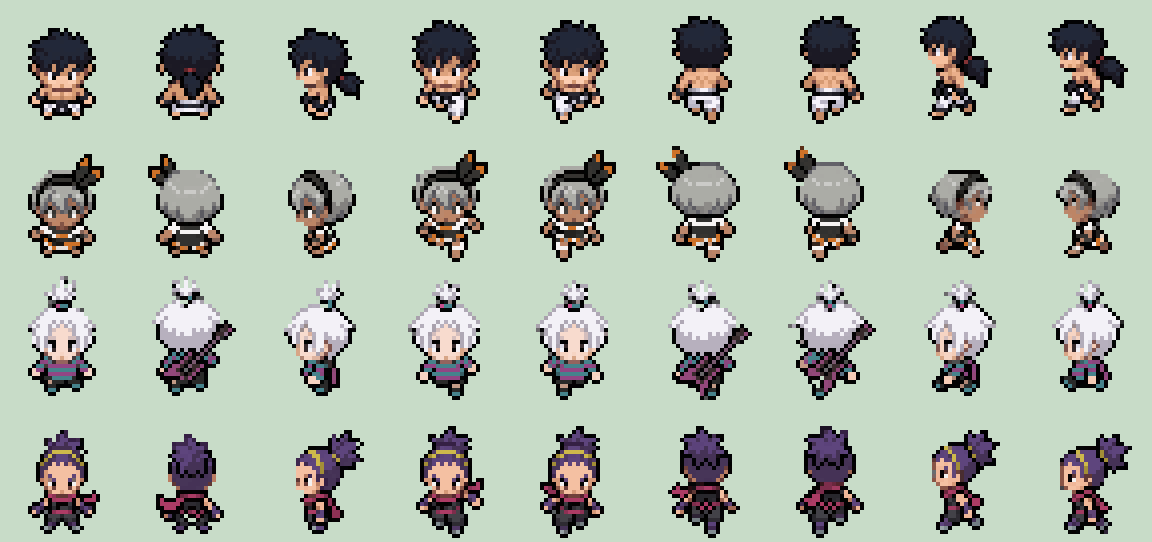
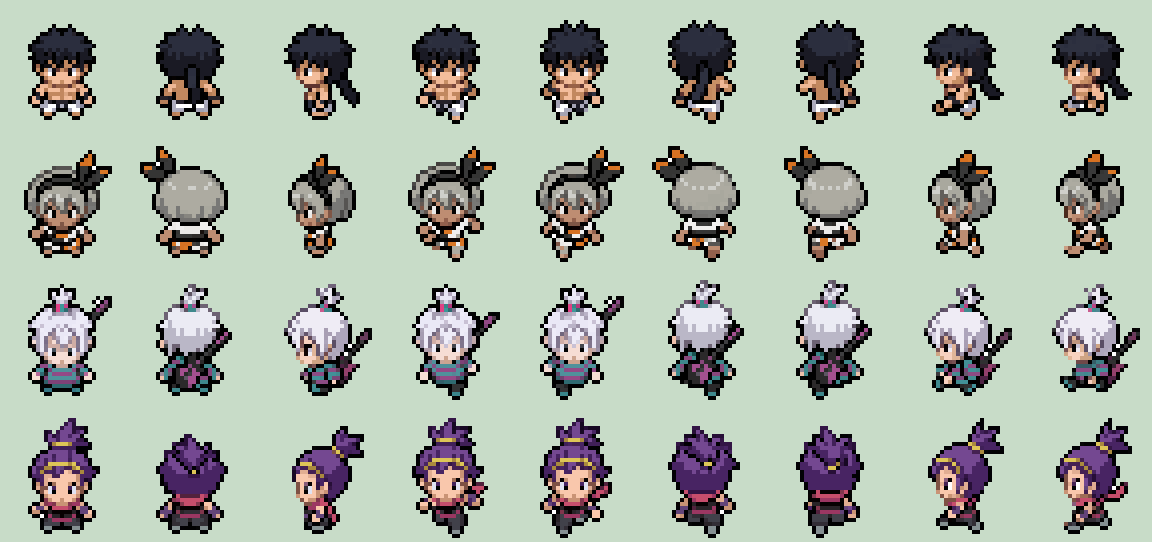
Redo legendary gym-leader outfit field sprites with PixelLab Transfer outfit
All four (bruno_m, bea_f, roxie_m, janine_f) are the pt_m/pt_f walking frames
redressed with Transfer outfit, so position, head/body size and facing match the
base in every frame. Roxie done per direction; back walk frames reuse frame 1's
upper body so head and guitar don't jump. Method in assets_src/leg_fit/ow/METHOD.md.

diff --git a/assets_src/leg_fit/ow/topost.py b/assets_src/leg_fit/ow/topost.py
@@ -1,0 +1,52 @@
+"""topost.py GRID96 BASE_STRIP OUT_PREFIX
+For PixelLab 'Transfer outfit' (Pro) results: the 9 base frames (pt_m/pt_f, 32x32 each)
+were uploaded as the animation, the battle front fit as the outfit image, background
+removal off. The result is a 96x96 3x3 sheet on white.
+Removes the white background (flood fill from every cell edge), drops stray specks
+(groups under 4 pixels), snaps alpha, and checks each frame's feet against the base frame.
+Writes OUT_PREFIX_ow9.png (288x32) and OUT_PREFIX_ow.png (32x192: frames 0,1,2,3,5,7)."""
+import sys
+from PIL import Image
+g = Image.open(sys.argv[1]).convert('RGBA'); base = Image.open(sys.argv[2]).convert('RGBA'); out = sys.argv[3]
+W, H = g.size; px = g.load()
+bg = lambda c: c[3] < 128 or (c[0] >= 240 and c[1] >= 240 and c[2] >= 240)
+st = [(x, y) for x in range(W) for y in range(0, H, 32)] + [(x, 31 + y) for x in range(W) for y in range(0, H, 32)]
+st += [(x, y) for y in range(H) for x in range(0, W, 32)] + [(31 + x, y) for y in range(H) for x in range(0, W, 32)]
+seen = set()
+while st:
+    x, y = st.pop()
+    if (x, y) in seen or not (0 <= x < W and 0 <= y < H): continue
+    seen.add((x, y))
+    if not bg(px[x, y]): continue
+    px[x, y] = (0, 0, 0, 0)
+    for nx, ny in ((x + 1, y), (x - 1, y), (x, y + 1), (x, y - 1)):
+        if nx // 32 == x // 32 and ny // 32 == y // 32: st.append((nx, ny))
+F = []
+for i in range(9):
+    f = g.crop((i % 3 * 32, i // 3 * 32, i % 3 * 32 + 32, i // 3 * 32 + 32)); p = f.load()
+    for y in range(32):
+        for x in range(32):
+            r, gg, b, a = p[x, y]
+            p[x, y] = (r, gg, b, 255) if a >= 128 else (0, 0, 0, 0)
+    # drop tiny specks (8-connected groups under 4 pixels)
+    seen2 = set()
+    for y in range(32):
+        for x in range(32):
+            if p[x, y][3] and (x, y) not in seen2:
+                comp, st2 = [], [(x, y)]
+                while st2:
+                    cx, cy = st2.pop()
+                    if (cx, cy) in seen2 or not (0 <= cx < 32 and 0 <= cy < 32) or not p[cx, cy][3]: continue
+                    seen2.add((cx, cy)); comp.append((cx, cy))
+                    st2 += [(cx + dx, cy + dy) for dx in (-1, 0, 1) for dy in (-1, 0, 1)]
+                if len(comp) < 4:
+                    for c in comp: p[c] = (0, 0, 0, 0)
+    b = base.crop((i * 32, 0, i * 32 + 32, 32))
+    print(i, 'bbox', f.getbbox(), 'base', b.getbbox())
+    F.append(f)
+s = Image.new('RGBA', (288, 32))
+for i, f in enumerate(F): s.alpha_composite(f, (i * 32, 0))
+s.save(out + '_ow9.png')
+v = Image.new('RGBA', (32, 192))
+for j, i in enumerate([0, 1, 2, 3, 5, 7]): v.alpha_composite(F[i], (0, j * 32))
+v.save(out + '_ow.png')

diff --git a/assets_src/leg_fit/ow/backfix.py b/assets_src/leg_fit/ow/backfix.py
@@ -1,0 +1,22 @@
+"""backfix.py OW9_STRIP OUT_PREFIX [split=27]
+Back-walk frames 5 and 6 reuse frame 1's upper body (head, guitar) raised 1px like the base
+walking bob, and keep only their own legs below row `split`, so nothing jumps sideways.
+Writes OUT_PREFIX_ow9.png and OUT_PREFIX_ow.png (frames 0,1,2,3,5,7)."""
+import sys
+from PIL import Image
+im = Image.open(sys.argv[1]).convert('RGBA'); out = sys.argv[2]
+split = int(sys.argv[3]) if len(sys.argv) > 3 else 27
+F = [im.crop((i * 32, 0, i * 32 + 32, 32)) for i in range(9)]
+def compose(up, low):
+    u = Image.new('RGBA', (32, 32)); u.paste(up, (0, -1), up)
+    o = Image.new('RGBA', (32, 32))
+    o.paste(u.crop((0, 0, 32, split)), (0, 0))
+    o.paste(low.crop((0, split, 32, 32)), (0, split))
+    return o
+F[5] = compose(F[1], F[5]); F[6] = compose(F[1], F[6])
+s = Image.new('RGBA', (288, 32))
+for i, f in enumerate(F): s.alpha_composite(f, (i * 32, 0))
+s.save(out + '_ow9.png')
+v = Image.new('RGBA', (32, 192))
+for j, i in enumerate([0, 1, 2, 3, 5, 7]): v.alpha_composite(F[i], (0, j * 32))
+v.save(out + '_ow.png')

diff --git a/assets_src/leg_fit/ow/METHOD.md b/assets_src/leg_fit/ow/METHOD.md
@@ -1,0 +1,20 @@
+# Gym-leader outfit field sprites (lf_*): how they were made
+
+PixelLab web, Creator > Edit > **Transfer outfit** (Pro, 10 generations a run).
+(Inpaint is not offered in Creator; Transfer outfit keeps the uploaded frames and only redresses them.)
+
+- Outfit image: the battle front fit, `assets_src/leg_fit/front/<name>.png` (80x80).
+- Images to edit: the 9 base walking frames cut from `gym/img/ow/pt_m.png` / `pt_f.png`
+  (32x32 each, in game order 0..8). Output is one 96x96 3x3 sheet in the same order.
+- Remove background: off (result is on white; `topost.py` removes it).
+- Additional instructions: what replaces the cap/beanie and hair, the outfit, how the back
+  looks, "keep every frame's pose, facing direction, head size, body size and feet position",
+  "side frames face left".
+
+Bruno, Bea, Janine: one run each with all 9 frames (raw/*_transfer.png).
+Roxie: the all-9 run put the guitar in a different place per frame, so it was redone per
+direction (3 frames per run: front 0,3,4 / back 1,5,6 / side 2,7,8), and back walk frames
+5 and 6 take frame 1's upper body (`backfix.py`, split row 27) so head and guitar don't move.
+
+    python3 topost.py raw/lf_bruno_m_transfer.png ../../../gym/img/ow/pt_m.png OUT/lf_bruno_m
+    python3 backfix.py OUT/lf_roxie_m_t_ow9.png OUT/lf_roxie_m 27
